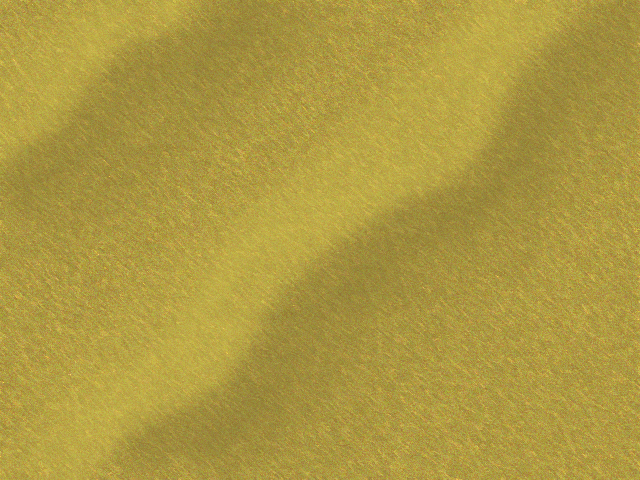
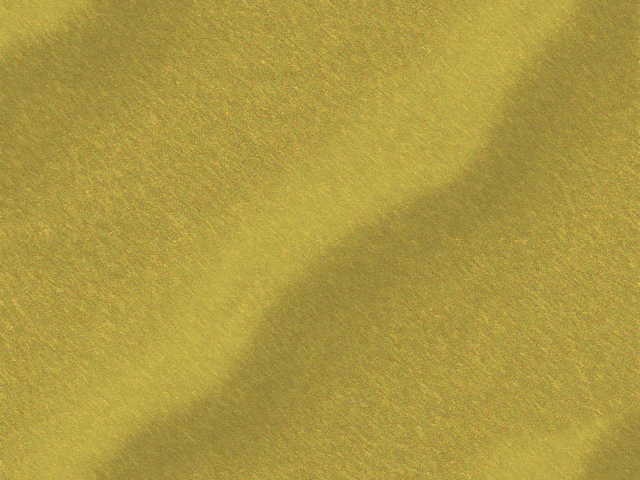
repeated background: giving an infinite illusion

diff --git a/src/entity/SpriteNode.cpp b/src/entity/SpriteNode.cpp
@@ -1,11 +1,17 @@
 #include "entity/SpriteNode.hpp"
 #include "utilities.hpp"
+#include <SFML/Graphics/Rect.hpp>
 #include <SFML/Graphics/RenderStates.hpp>
 #include <SFML/Graphics/RenderTarget.hpp>
 #include <SFML/Graphics/Texture.hpp>
 
 SpriteNode::SpriteNode(const sf::Texture& texture)
 : m_sprite(texture) {
+    center_origin(m_sprite);
+}
+
+SpriteNode::SpriteNode(const sf::Texture& texture, const sf::IntRect& rect)
+: m_sprite(texture, rect) {
     center_origin(m_sprite);
 }
 

diff --git a/include/entity/SpriteNode.hpp b/include/entity/SpriteNode.hpp
@@ -1,14 +1,19 @@
 #pragma once
 
 #include "entity/Entity.hpp"
+#include <SFML/Graphics/Rect.hpp>
 #include <SFML/Graphics/RenderStates.hpp>
 #include <SFML/Graphics/RenderTarget.hpp>
 #include <SFML/Graphics/Sprite.hpp>
 #include <SFML/Graphics/Texture.hpp>
+#include <memory>
 
 class SpriteNode: public Entity {
     public:
+        typedef std::unique_ptr<SpriteNode> Ptr;
+    public:
         SpriteNode(const sf::Texture& texture);
+        SpriteNode(const sf::Texture& texture, const sf::IntRect& rect);
     
     private:
         virtual void draw_current(sf::RenderTarget& target, sf::RenderStates states) const;

diff --git a/src/World.cpp b/src/World.cpp
@@ -3,6 +3,7 @@
 #include "entity/Aircraft.hpp"
 #include "entity/SpriteNode.hpp"
 #include "resources/ResourceIdentifier.hpp"
+#include <SFML/Graphics/Rect.hpp>
 #include <SFML/Graphics/RenderWindow.hpp>
 #include <SFML/Graphics/Texture.hpp>
 #include <SFML/Graphics/View.hpp>
@@ -39,8 +40,10 @@ void World::build() {
 
     // Create Background
     sf::Texture& landscape_texture(m_textures.get(Textures::Landscape));
+    sf::IntRect bounds(0, 0, landscape_texture.getSize().x, 2000 * 1000);
     landscape_texture.setRepeated(true);
-    SpriteNode::Ptr background(new SpriteNode(m_textures.get(Textures::Landscape)));
+    
+    SpriteNode::Ptr background(new SpriteNode(m_textures.get(Textures::Landscape), bounds));
     
     // Scale the background as the View itself
     auto view_size = m_view.getSize();

diff --git a/include/World.hpp b/include/World.hpp
@@ -2,6 +2,7 @@
 
 #include "SceneNode.hpp"
 #include "entity/Aircraft.hpp"
+#include "entity/SpriteNode.hpp"
 #include "resources/ResourceIdentifier.hpp"
 #include <SFML/Graphics/RenderWindow.hpp>
 #include <SFML/Graphics/View.hpp>